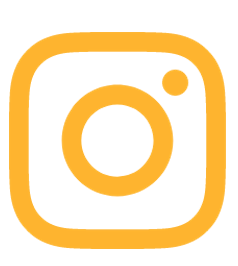
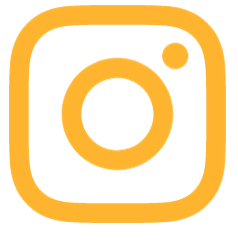
Continuação Login/Cadastro e Alteração de cores

Changed region(s): [[0.0294, 0.0, 0.9706, 0.7583], [0.0294, 0.5833, 0.9706, 0.9625], [0.1176, 0.5833, 0.8824, 0.875]]

diff --git a/Site/HTML/cadastro.html b/Site/HTML/cadastro.html
@@ -20,9 +20,15 @@
             </div>
             <div class="nav">
                 <ul>
-                    <a href="../HTML/index.html"><li>HOME</li></a>
-                    <a href="../HTML/login.html"><li>LOGIN</li></a>
-                    <a href="../HTML/cadastro.html"><li class="agora">CADASTRO</li></a>
+                    <a href="../HTML/index.html">
+                        <li>HOME</li>
+                    </a>
+                    <a href="../HTML/login.html">
+                        <li>LOGIN</li>
+                    </a>
+                    <a href="../HTML/cadastro.html">
+                        <li class="agora">CADASTRO</li>
+                    </a>
                     <li>QUIZ</li>
                     <li>MEU PERFIL</li>
                 </ul>
@@ -31,9 +37,16 @@
     </header>
 
     <section class="cadastro">
-        <div class="formulario">
-            <!-- <input type="text"> -->
-        </div>
+        <form class="formulario">
+            <span class="tituloCadastro">CADASTRO</span>
+            <div class="containerInput">
+                <input id="iptNome" class="entradas" placeholder="Nome">
+                <input id="iptEmail" class="entradas" placeholder="Email">
+                <input id="iptDataNasc" class="entradas" placeholder="Data de Nascimento">
+                <input id="iptSenha" class="entradas" placeholder="Senha">
+                <input id="iptConfirma" class="entradas" placeholder="Confirmação de Senha">
+            </div>
+        </form>
     </section>
 
     <footer>
@@ -44,9 +57,15 @@
             <div class="divAreaSite">
                 PÁGINAS
                 <ul>
-                    <a href="../HTML/index.html"><li>HOME</li></a>
-                    <a href="../HTML/login.html"><li>LOGIN</li></a>
-                    <a href="../HTML/cadastro.html"><li>CADASTRO</li></a>
+                    <a href="../HTML/index.html">
+                        <li>HOME</li>
+                    </a>
+                    <a href="../HTML/login.html">
+                        <li>LOGIN</li>
+                    </a>
+                    <a href="../HTML/cadastro.html">
+                        <li>CADASTRO</li>
+                    </a>
                     <li>QUIZ</li>
                     <li>MEU PERFIL</li>
                 </ul>
@@ -55,7 +74,7 @@
                 MAIS SOBRE NAKATA
                 <ul class="iconesMidiaNakata">
                     <li><a href="https://www.instagram.com/hidetoshi_nakata_/" target="_blank"><img
-                                src="../Img/Icone/Insta2.png" class="iconeFooter"></a></li>
+                                src="../Img/Icone/InstaCadastro.png" class="iconeFooter"></a></li>
                     <li><a href="https://www.sofascore.com/player/hidetoshi-nakata/2027" target="_blank"><img
                                 src="../Img/Icone/Sofa.webp" class="iconeFooter"></a></li>
                     <li><a href="https://www.transfermarkt.com.br/hidetoshi-nakata/profil/spieler/5875"

diff --git a/Site/CSS/estiloGeral.css b/Site/CSS/estiloGeral.css
@@ -6,15 +6,17 @@
     margin: 0;
     box-sizing: border-box;
     font-family: "roboto", sans-serif;
+    --cor-principal: #731E25;
+    --cor-secundaria: #FEB42F;
 }
 
 body {
-    background-color: #FEB42F;
+    background-color: var(--cor-secundaria);
     overflow-x: hidden;
 }
 
 a {
-    color: #FEB42F;
+    color: var(--cor-secundaria);
     text-decoration: none;
 }
 
@@ -43,7 +45,7 @@ header li {
 }
 
 .containerHeader {
-    color: #FEB42F;
+    color: var(--cor-secundaria);
     width: 95%;
     height: 85%;
     margin: auto;
@@ -58,13 +60,13 @@ header li {
     font-family: "Kolker Brush", serif;
     width: 2.6vw;
     font-size: 50pt;
-    border-bottom: 3px solid #FEB42F;
+    border-bottom: 3px solid var(--cor-secundaria);
     margin-left: 30px;
 }
 
 .agora {
-    background-color: #FEB42F;
-    color: #731E25;
+    background-color: var(--cor-secundaria);
+    color: var(--cor-principal);
     border-radius: 20px;
     padding: 7px;
 }
@@ -73,13 +75,13 @@ header li {
 
 footer {
     width: 100%;
-    background-color: #731E25;
+    background-color: var(--cor-principal);
     height: 25vh;
 }
 
 .containerFooter {
     /* font-family: "roboto", sans-serif; */
-    color: #FEB42F;
+    color: var(--cor-secundaria);
     width: 95%;
     height: 85%;
     margin: auto;

diff --git a/Site/CSS/Cadastro.css b/Site/CSS/Cadastro.css
@@ -1,4 +1,12 @@
+* {
+    --cor-principal: #2a3885;
+    --cor-secundaria: #fcd206;
+}
+
 .cadastro {
+    display: flex;
+    align-items: center;
+    justify-content: right;
     height: 100vh;
     width: 100vw;
     background-image: url("../Img/Nakata/noticia1.jpg");
@@ -6,9 +14,37 @@
     background-size: cover;
 }
 
-.divFormulario {
+.formulario {
     display: flex;
-    align-items: flex-end;
-    width: 100%;
-    height: 100%;
+    flex-direction: column;
+    align-items: center;
+    justify-content: start;
+    margin-top: 70px;
+    margin-right: 70px;
+    border-radius: 10px;
+    width: 38%;
+    height: 65%;
+    background-color: var(--cor-principal);
+}
+
+.tituloCadastro {
+    color: var(--cor-secundaria);
+    font-size: 20pt;
+    font-weight: 500;
+    margin-top: 50px;
+}
+
+.containerInput {
+    margin-top: 17px;
+    width: 76%;
+}
+
+.entradas {
+    font-size: 15pt;
+    margin: 12px 0px;
+    color: white;
+    border: none;
+    border-bottom: var(--cor-secundaria) 2px solid;
+    background-color: rgba(0, 0, 0, 0%);
+    width: 400px;
 }

diff --git a/Site/HTML/login.html b/Site/HTML/login.html
@@ -55,7 +55,7 @@
                 MAIS SOBRE NAKATA
                 <ul class="iconesMidiaNakata">
                     <li><a href="https://www.instagram.com/hidetoshi_nakata_/" target="_blank"><img
-                                src="../Img/Icone/Insta2.png" class="iconeFooter"></a></li>
+                                src="../Img/Icone/InstaLogin.png" class="iconeFooter"></a></li>
                     <li><a href="https://www.sofascore.com/player/hidetoshi-nakata/2027" target="_blank"><img
                                 src="../Img/Icone/Sofa.webp" class="iconeFooter"></a></li>
                     <li><a href="https://www.transfermarkt.com.br/hidetoshi-nakata/profil/spieler/5875"

diff --git a/Site/CSS/Login.css b/Site/CSS/Login.css
@@ -1,3 +1,8 @@
+* {
+    --cor-principal: #000;
+    --cor-secundaria: #fff;
+}
+
 .login {
     height: 100vh;
     width: 100vw;
